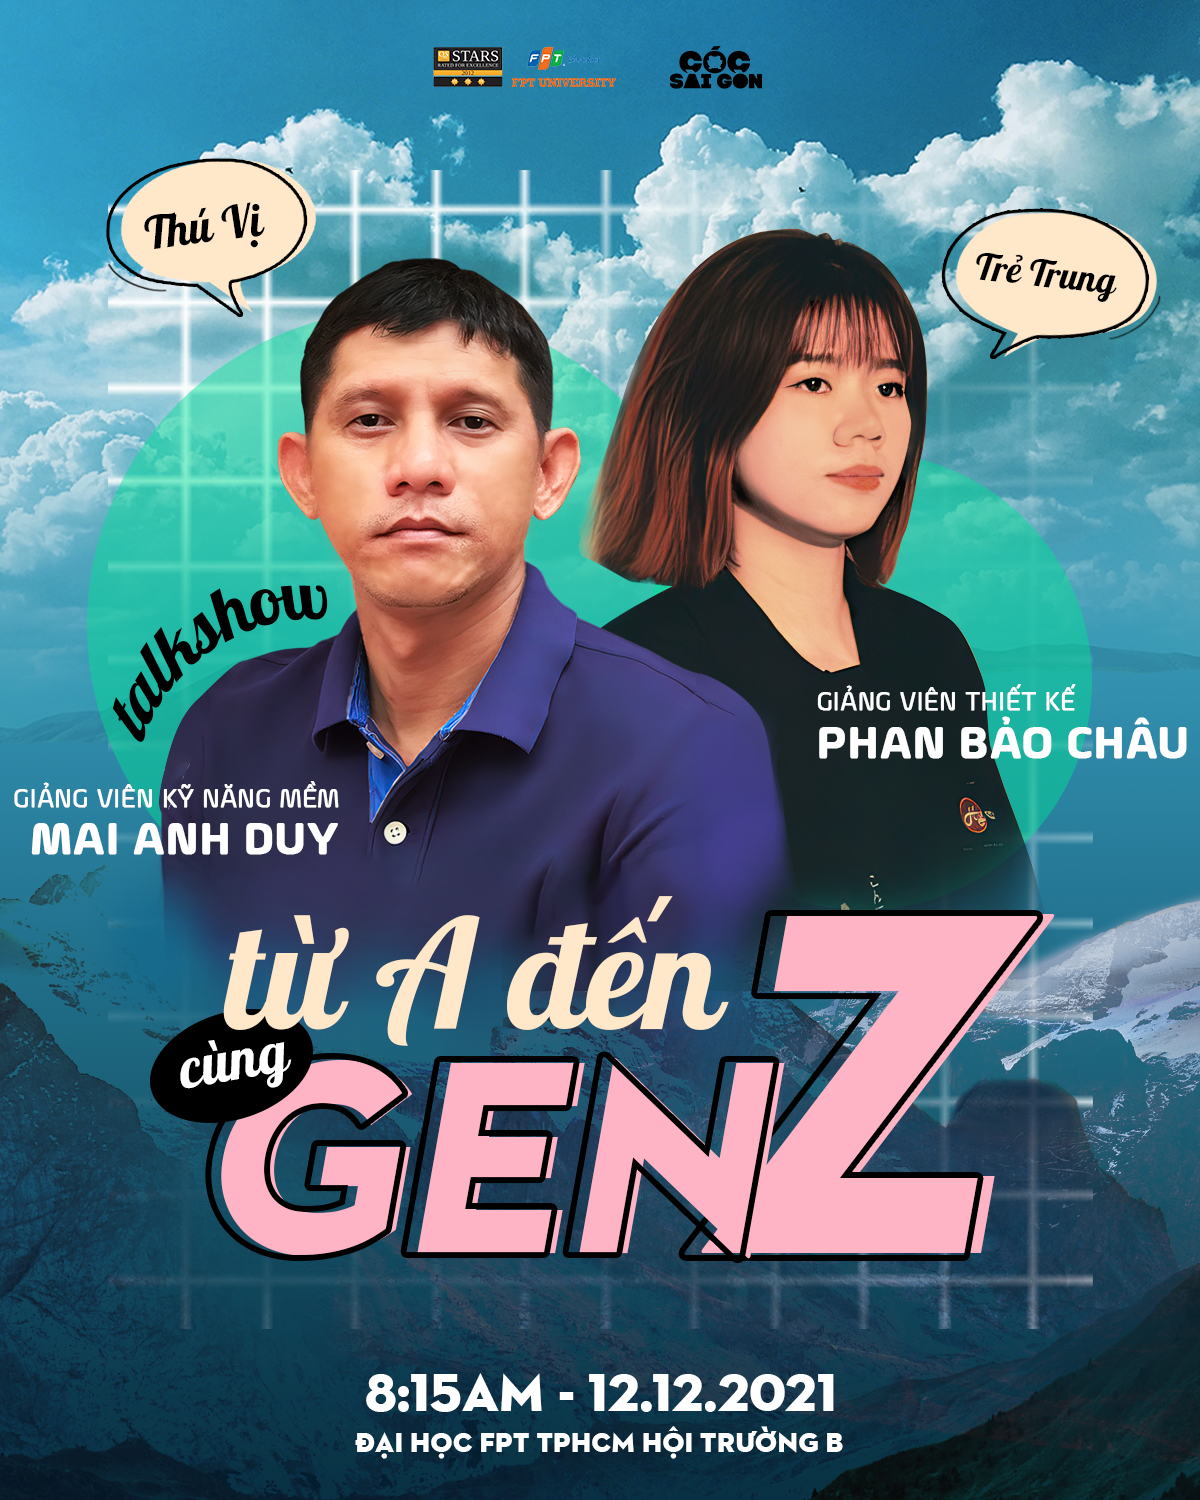
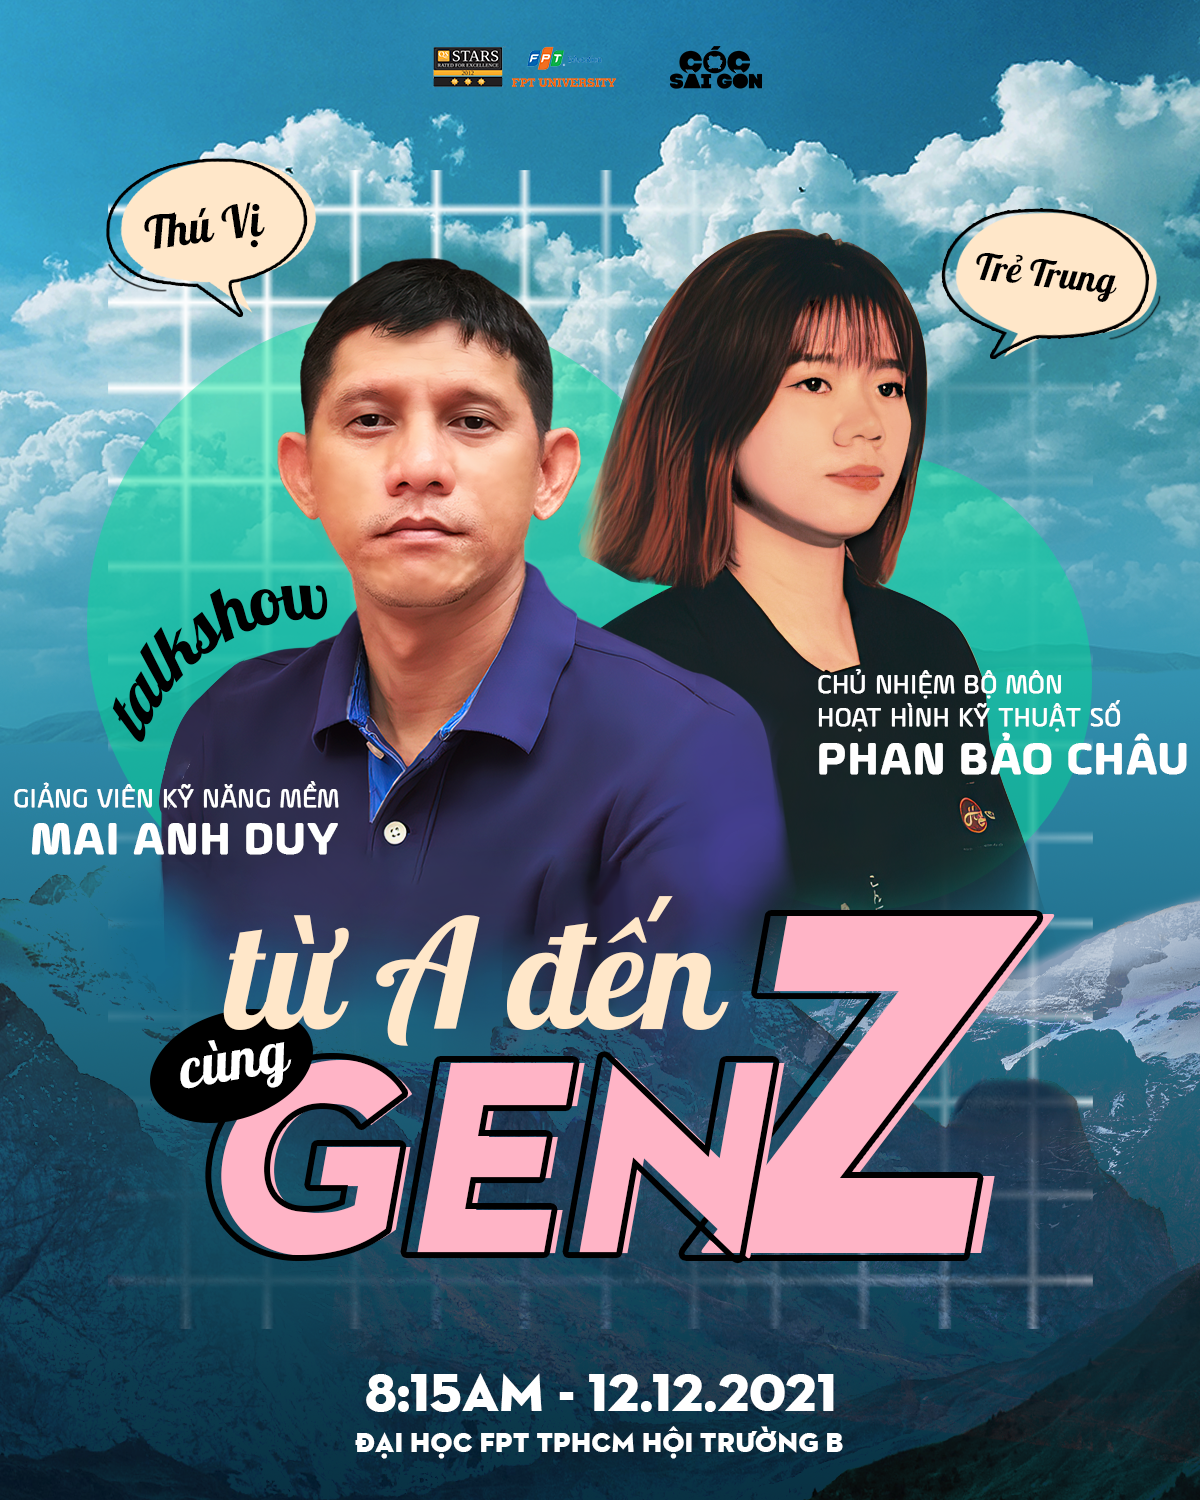
update source code

Changed region(s): [[0.6783, 0.4293, 1.0, 0.5213]]

diff --git a/index.html b/index.html
@@ -47,7 +47,7 @@
 								</h2>
 							</header>
 							<div>
-								<p>
+								<p style="text-align:jutify">
 									✨  Một món quà đặc biệt dành riêng cho sinh viên FPT vào tháng 12 này✨
 									<br/>
 									📣  Câu lạc bộ Truyền Thông Cóc Sài Gòn sẽ đem đến một sự kiện xoay quanh chủ đề cực hot: "Gen Z!!!" 💥
@@ -69,7 +69,7 @@
 									<br/> 
 									👨🏫 Thầy Mai Anh Duy - Giảng viên môn Kỹ năng mềm của Trường&nbspĐại&nbsphọc&nbspFPT&nbspTP.HCM
 									<br/> 
-									👩🏫 Cô Jakie Phan Bảo Châu - Chủ nhiệm Bộ môn Hoạt hình kỹ thuật số của Trường&nbspĐại&nbsphọc&nbspFPT&nbspTP.HCM
+									👩🏫 Cô Jackie Phan Bảo Châu - Chủ nhiệm Bộ môn Hoạt hình kỹ thuật số của Trường&nbspĐại&nbsphọc&nbspFPT&nbspTP.HCM
 									<br/> 
 									Đây đều là những người đã có thời gian dài tiếp xúc trực tiếp với những thế hệ sinh viên, chắc chắn với kinh nghiệm của mình, thầy cô sẽ giúp các bạn gỡ rối những vấn đề khó đáp cũng như mang lại những kiến thức bổ ích cho hành trang cuộc sống sau này😉😉
 									<br/> 

diff --git a/assets/css/main.css b/assets/css/main.css
@@ -102,6 +102,7 @@ input, select, textarea {
 		font-size: 16pt;
 		font-weight: 300;
 		line-height: 1.65em;
+		text-align: justify;
 	}
 
 	a {
